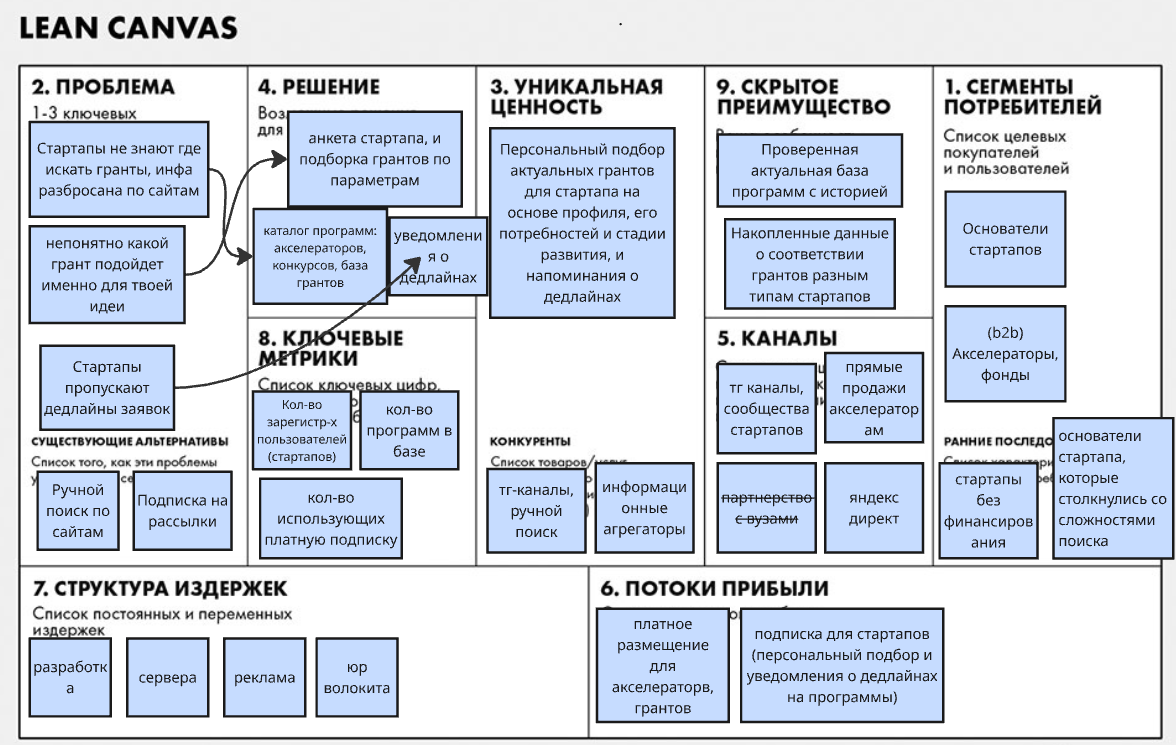
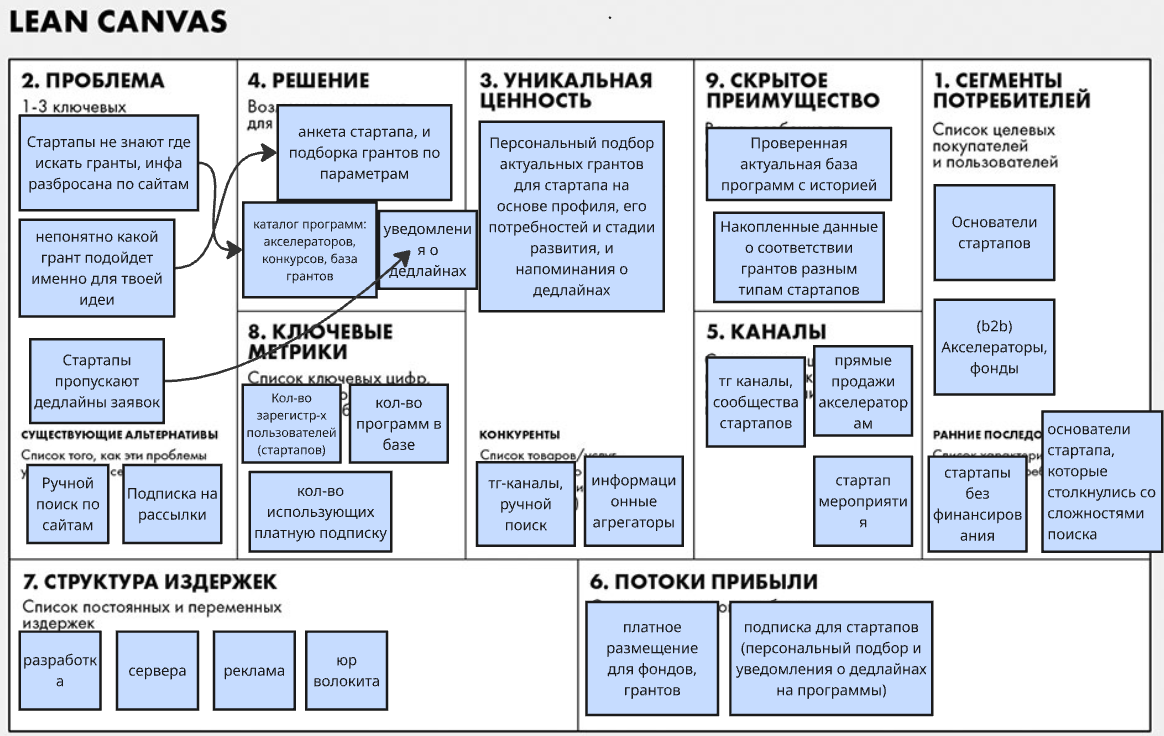
дз2, дз3

Changed region(s): [[0.0, 0.0, 1.0, 1.0]]

diff --git a/README.md b/README.md
@@ -9,3 +9,187 @@
 ### Lean Canvas
 
 ![Lean Canvas проекта «Агрегатор грантов для стартапов»](images/lean-canvas.png)
+
+
+# ДЗ №2
+
+## 1. HADI-гипотеза
+
+**Самый критичный риск из Lean Canvas (для b2b):** Риск ценности — будут ли фонды и акселераторы платить деньги за размещение их программ 
+
+- **H:** Акселераторы грантов и фонды готовы платить деньги за размещение своих программ на нашей платформе,потому что им нужны заявки от стартапов. 
+- **A:** Создать тг-канал, набрать n подписчиков через рекламу, написать 20 акселераторам "у нас канал на n основателей стартапов, хотели бы разместить программы? выставить счет/просить предоплату.
+- **D:** Сколько акселераторов реально оплатили
+- **I:** 3+ из 20 оплатили - b2b работает
+
+**Самый критичный риск из Lean Canvas (для b2c):** Риск ценности — будут ли основатели стартапов платить деньги за подписку (расширенный каталог программ, персональная подборка, уведомления о дедлайнах), если есть тг-каналы акселераторов.
+
+- **H:** Стартапы устали искать гранты на разных сайтах, находят много программ которые им не подходят. Основатели стартапов готовы платить подписку на сервис, который предлагает персональную подборку подходящих грантов и присылает уведомления о дедлайнах.
+- **A:** Сделать одностраничный лендинг с описанием сервиса и кнопкой "оформить полписку". запустить рекламу
+- **D:** Замерить CPC (стоимость клика) и конверсию в нажатие кнопки
+- **I:** Если CPC ниже 150 руб, а конверсия выше 5% — гипотеза подтверждена
+
+## 2. Расчёт юнит-экономики
+
+**b2c модель:**
+
+- **Стоимость клика в рекламе:** 100 руб.
+- **Конверсия в регистрацию:** 25%. Стоимость одной бесплатной регистрации: 100 руб. / 0,25 = 400 руб.
+- **Конверсия в покупку платной подписки:** 10%
+- **CAC** = 4000 руб.
+
+- **LTV**
+- **Стоимость подписки** 1500руб/мес
+- **Сервера** 100рублей/мес
+- **Прибыль сс одного клиента** 1400руб/мес
+- **Средний срок жихни клиента** 9 мес
+- **LTV** = 1400*9=12600
+
+- **LTV/CAC** = 3,15
+
+**b2b модель**
+Предположим, за месяц мы потратили на привлечение 50000 руб. (100 контактов по 500 руб.). 15% компаний перешли к переговорам, конверсия в договор 10%. 
+- **CAC**
+- **Стоимость контакста с организацией 500 руб(письма, прямые продажи)
+- **Конверсия в переговоры** 15%, стоимость переговоров 3333руб.
+- **конверсия в договор** 10%
+- **CAC** = 3333/0.1 = 33333
+
+- **LTV**
+- **Цена размещения** 10000руб/мес
+- **Затраты** 1000руб/мес
+- **Прибыль с одного акселератора** 9000руб/мес
+- **Средний срок жизни клиента** 12 мес
+- **LTV** = 9000*12=108000руб
+
+- **LTV/CAC** = 108000/3333=3,24
+
+Показатель больше 3, а значит юнит-экономика сходится.
+
+## 3. Pivot
+
+Technology Pivot - Можно изменить технологию подбора финансирования для стартапов, внедврив ИИ, который будет анализировать описание стартапа и требования грантов, учитывать контекст проекта и формировать персонализированные рекомендации с объяснением причин выбора. 
+Т.е.мы переходим от подбора по формальным параметрам к интеллектуальному анализу и сопоставлению данных с помощью ИИ.
+
+### Elevator Pitch
+Стартапам сложно находить подходящие гранты, поскольку информация о финансировании разбросана по разным источникам, а требования программ могут быть сложными и отличаться друг от друга. Мы создаём ИИ-агента для поиска грантов, который анализирует профиль стартапа, сопоставляет его с требованиями программ финансирования и предлагает персонализированную подборку с объяснением, почему каждый грант подходит проекту. Мы помогаем стартапам экономить время на поиске финансирования, а акселераторам и университетам — находить подходящие программы для своих участников.
+
+### Lean Canvas
+![Lean Canvas проекта «Агрегатор грантов для стартапов»](images/lean-canvas-pivot.png)
+
+# ДЗ №3
+
+Будем дальше работать с изначальной идей проекта, до пивота, так как юнит-экономика сошлась.
+## 1. Роли и User Stories
+**Роли:**
+- Основатель стартапа (b2c) - ищет гранты и программы поддержки для запуска и развития своего проекта
+- Организатор грантовых программ (b2b) - размещает инфу о грантах, обновляет данные
+- Консультант по грантам/акселератор - ищет программы для своих клиентов/участников
+
+**User stories:**
+1. Как любой пользователь, я хочу зарегистрироваться на платформе, чтобы сохранить свои данные.
+2. Как основатель стартапа, я хочу указать стадию развития своего проекта, чтобы видеть программы, подходящие моему этапу.
+3. Как основатель стартапа, я хочу указать отрасль своего проекта, чтобы получать гранты, соответствующие сфере деятельности.
+4. Как основатель стартапа, я хочу указать  регион, чтобы видеть программы, в которых мой проект имеет право участвовать.
+5. Как основатель стартапа, я хочу указать потребность в финансировании, чтобы находить гранты с подходящим размером поддержки.
+6. Как основатель стартапа, я хочу просматривать каталог грантов и программ поддержки, чтобы изучать доступные возможности финансирования.
+7. Как основатель стартапа, я хочу получать персональную подборку программ на основе параметров моего проекта, чтобы тратить меньше времени на поиск.
+8. Как основатель стартапа, я хочу видеть требования к участникам каждой программы, чтобы заранее понимать, подходит ли мне грант
+9. Как основатель стартапа, я хочу видеть сумму финансирования, сроки и дедлайн подачи заявки, чтобы оценивать привлекательность программы.
+10. Как основатель стартапа, я хочу переходить к официальному источнику программы, чтобы проверять условия и подавать заявку.
+11. Как основатель стартапа, я хочу сохранять интересующие меня программы в избранное, чтобы вернуться к ним позже.
+12. Как основатель стартапа, я хочу получать напоминания о приближении дедлайна, чтобы не пропустить срок подачи заявки.
+13. Как основатель стартапа, я хочу получать уведомления о новых подходящих грантах, чтобы узнавать о возможностях финансирования вовремя.
+14. Как основатель стартапа, я хочу видеть объяснение, почему конкретная программа мне подходит, чтобы понимать релевантность рекомендации. 
+15. Как организатор, я хочу отправить информацию о своей программе на размещение, чтобы привлечь подходящие стартапы.
+16. Как организатор, я хочу обновлять условия и сроки программы, чтобы потенциальные участники видели актуальную информацию.
+17. Как организатор, я хочу получать статистику просмотров и переходов по своей программе, чтобы оценивать эффективность размещения.
+18. Как консультант по грантовым программам, я хочу искать гранты по параметрам проектов моих клиентов, чтобы находить подходящие варианты.
+19. Как консультант по грантовым программам, я хочу делится ссылками на найденные гранты, чтобы мои клиенты изучили возможность финансирования.
+
+## 2. Приоритизация по методу MoSCoW
+**M (Must have):**
+- выбор стадии стартапа
+- выбор отрасли
+- выбор региона
+- каталог программ
+- персональная подборка
+- просмотр требований к участникам
+- сумма, сроки и дедлайн
+- отправка программы финансирования на размещение
+
+**S (Should have):**
+- регистрация пользователя
+- указание потребности в финансирование
+- ссылка на оффициальный источник
+- напоминания о дедлайнах
+- поиск по программ по фильтрам
+
+**С (Could Have):**
+- добавление программы в избранное
+- уведомление о новых программах
+- объяснение подбора рекомендованных программ
+- обновление условий программы
+- ссылки на найденные гранты
+
+**W (Won't have now):**
+- статистика просмотров и переходов по программе
+
+## 3. MVP и MLP
+**MVP** - минимально жизнеспособный продукт
+- каталог грантов
+- форма параметров стартапа (отрасль, стадия, регион)
+- подбор подходящих программ
+- карточка программы (условия, дедлайн, ифна...)
+- для организаторов отправка информации о гранте
+
+**MLP** - продукт с дополнительной ценностью
+- персональные уведомления о новых грантах
+- сохранение профиля
+- напоминания о дедлайнах
+- ссылка на оффициальный источник
+- избранное
+- объяснение почему грант подходит
+- обновление программ
+
+
+## 4. Детализация требований из MVP
+Story 1: Как основатель стартапа, я хочу получать персональную подборку программ на основе параметров моего проекта, чтобы тратить меньше времени на поиск.
+
+Функциональные требования:
+- Система должна предоставлять пользователю форму указания параметров стартапа: стадия развития, отрасль и страна или регион.
+- Система должна сохранять введённые параметры на время формирования подборки.
+- Для каждой программы должны отображаться название, организатор, краткое описание и срок подачи заявки, если он известен.
+- Система должна отбирать программы, соответствующие указанным параметрам.
+- Система должна сообщать пользователю, если подходящие программы не найдены, и предлагать изменить параметры поиска.
+
+Нефункциональные требования:
+- При работе с каталогом MVP подборка должна отображаться не позднее чем через 3 секунды при штатной нагрузке.
+- Пользователь должен иметь возможность заполнить форму без специальных технических знаний.
+- Интерфейс должен корректно отображаться на мобильных устройствах и компьютерах.
+- Система не должна показывать программу как подходящую, если в базе указано несоответствие обязательным критериям участия.
+
+Story 2: Как основатель стартапа, я хочу видеть карточку программы, чтобы заранее понимать, подходит ли мне грант и стоит ли тратить время на подготовку заявки.
+
+Функциональные требования:
+- Карточка должна содержать название гранта и название организации-организатора.
+- Карточка должна отображать описание программы и критерии участия, если эти данные предоставлены.
+- Карточка должна содержать сведения о размере финансирования, географических ограничениях и сроках подачи заявок, если они известны.
+- Если информация отсутствует, система должна показывать «Не указано»
+- Если срок подачи заявки завершён, система должна показывать статус «Приём заявок завершён».
+
+Нефункциональные требования:
+- Карточка должна загружаться не более чем за 2 секунды в 95% запросов при штатной нагрузке.
+- Карточка должна корректно отображаться на мобильных устройствах и компьютерах.
+- После подтверждения изменений условий организатором информация должна обновляться не позднее одного рабочего дня.
+
+
+
+
+
+
+
+
+
+
+
